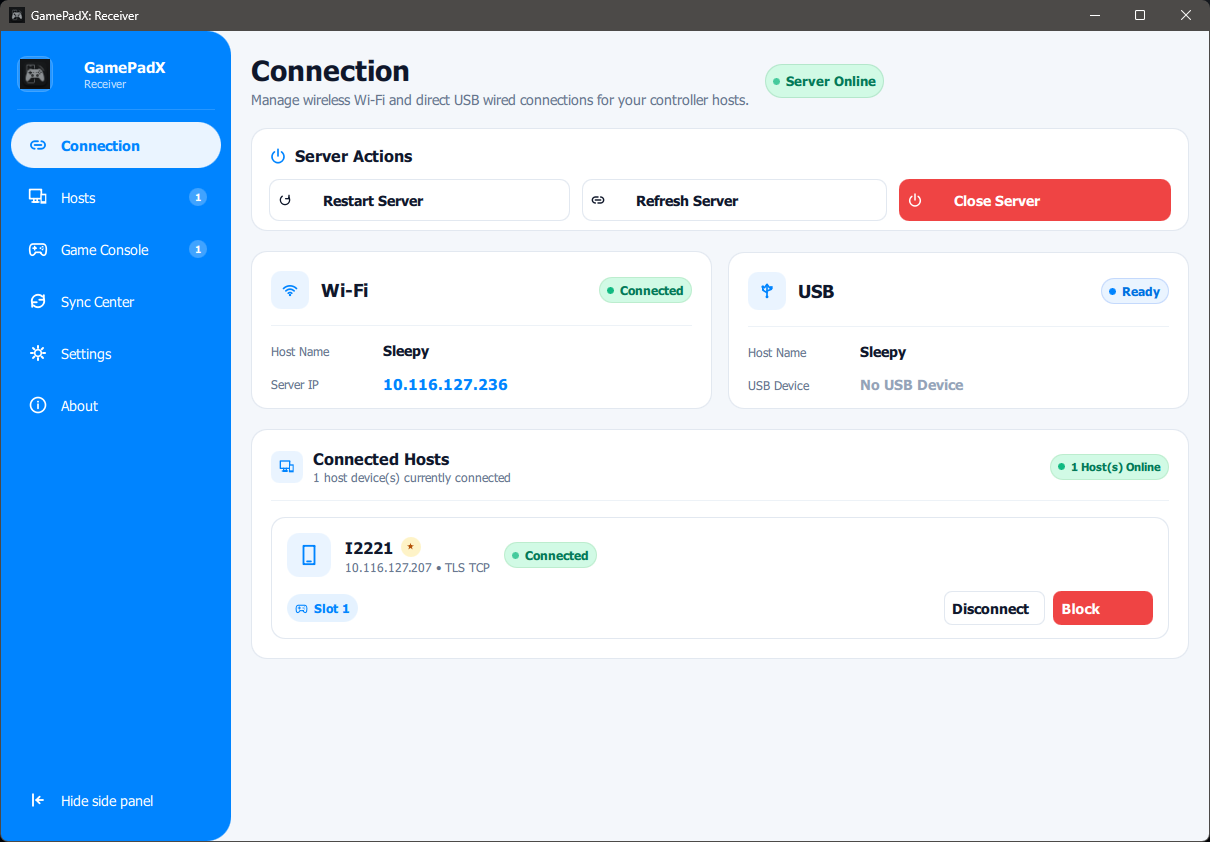
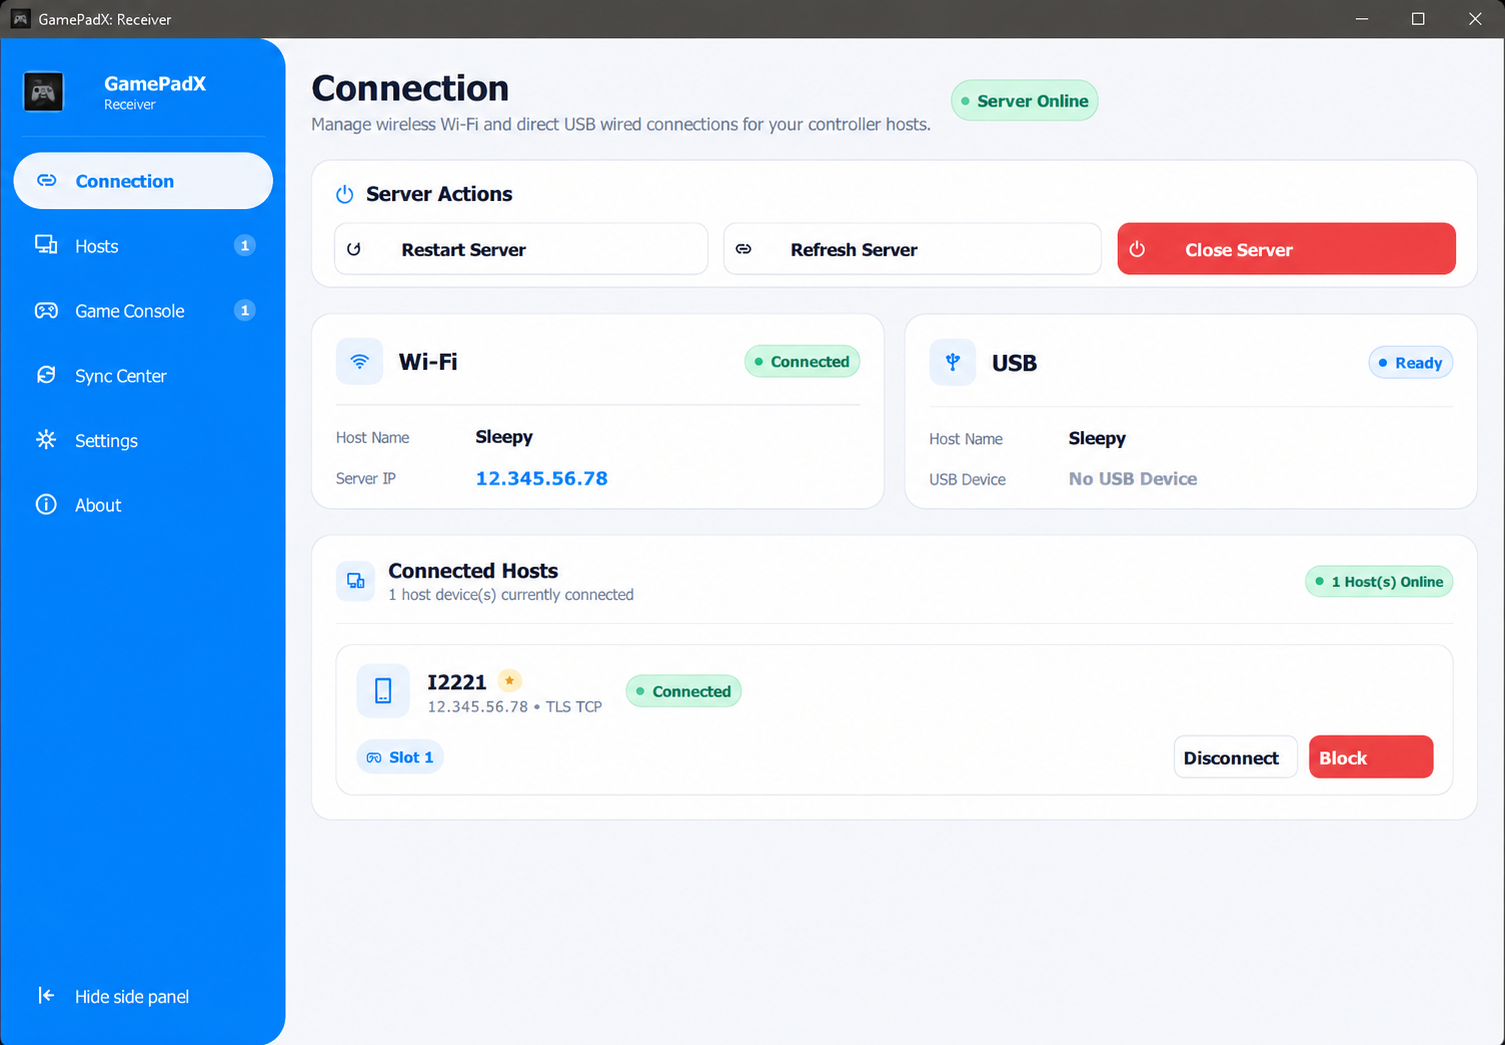
New Release Added

diff --git a/index.html b/index.html
@@ -286,7 +286,7 @@
                                 </p>
                             </div>
                             <div class="platform-download-cta">
-                                <a href="https://github.com/Sleepy-07/GamePadX-Pc-Controller-Server/releases" target="_blank" rel="noopener noreferrer" class="btn btn-primary-pill">
+                                <a href="https://github.com/Sleepy-07/GamePadX/releases/download/GamePadX/GamePadX_Receiver_Setup_v1.2.0.exe" target="_blank" rel="noopener noreferrer" class="btn btn-primary-pill">
                                     <i data-lucide="download"></i>
                                     <span>Download Server (.exe)</span>
                                 </a>
